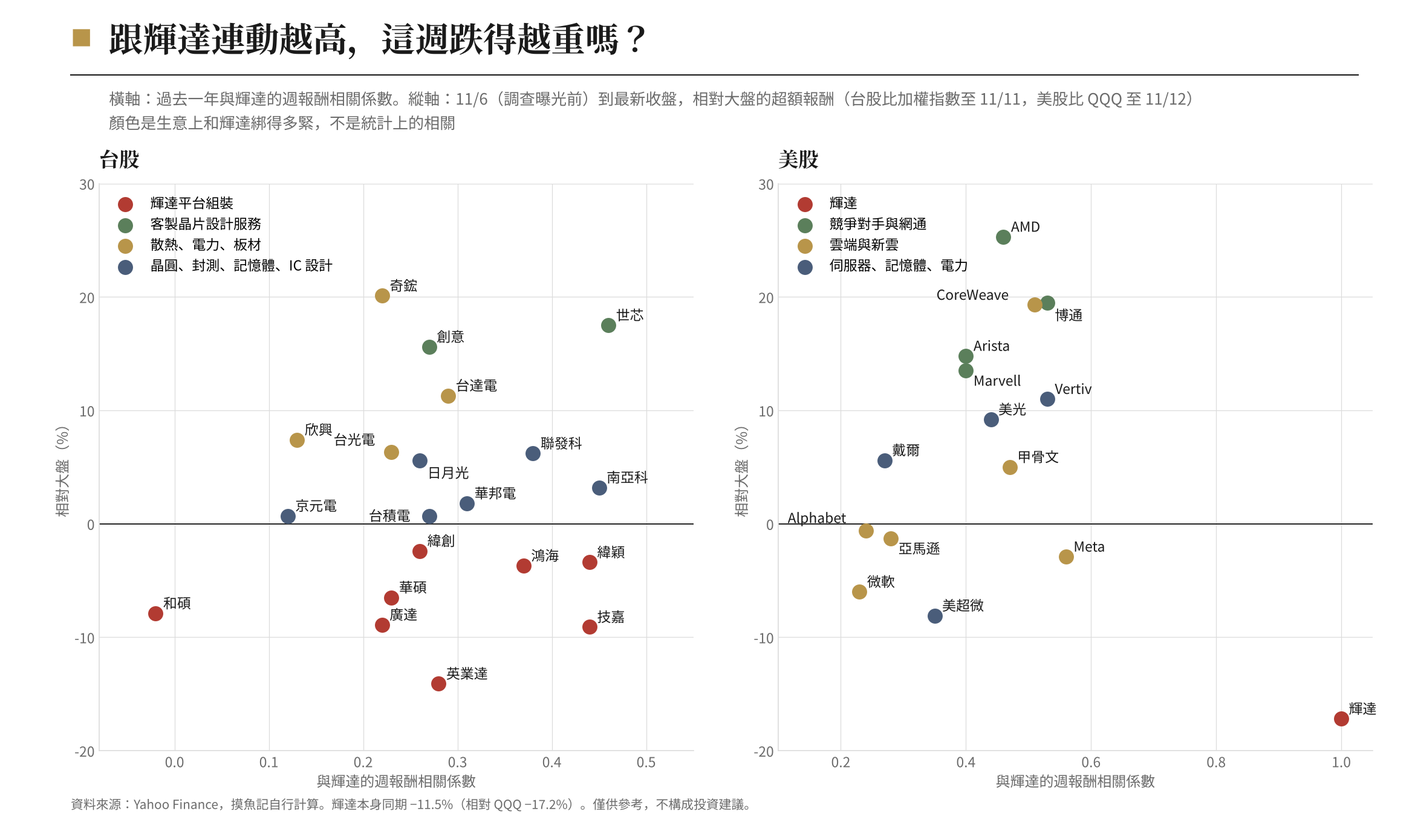
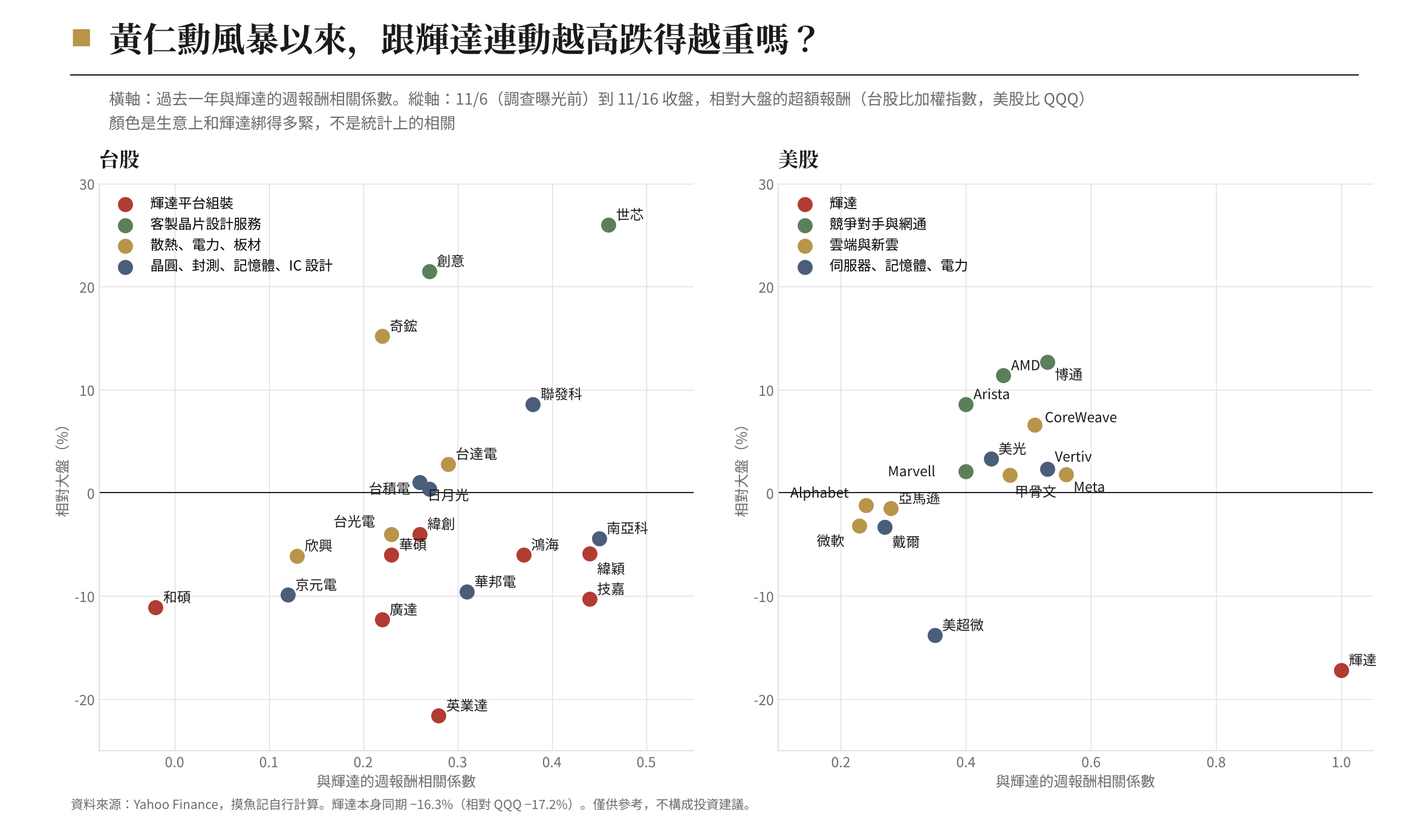
W46: update to 11/16 close, viral affair-table comparison chart
Claude-Session: https://claude.ai/code/session_017fQSiLgrET3Kg63C49rJdr

diff --git a/personal/drafts/gen_W46_chart2.py b/personal/drafts/gen_W46_chart2.py
@@ -5,18 +5,19 @@ SANS='/usr/share/fonts/opentype/noto/NotoSansCJK-Regular.ttc'; SB='/usr/share/fo
 for p in (SANS,SB): fm.fontManager.addfont(p)
 sb=fm.FontProperties(fname=SB); matplotlib.rcParams['font.family']=fm.FontProperties(fname=SANS).get_name(); matplotlib.rcParams['axes.unicode_minus']=False
 BG="#ffffff";INK="#1a1a1a";GREY="#6b6b6b";LGRID="#dcdcdc";GOLD="#b8954a";RED="#b23b32";SLATE="#4a5d7a";GREEN="#5b7f5b"
-TW={"輝達平台組裝":(RED,[("鴻海",.37,-3.7),("廣達",.22,-8.9),("緯創",.26,-2.4),("緯穎",.44,-3.4),("技嘉",.44,-9.1),("英業達",.28,-14.1),("華碩",.23,-6.5),("和碩",-.02,-7.9)]),
-    "客製晶片設計服務":(GREEN,[("世芯",.46,17.5),("創意",.27,15.6)]),
-    "散熱、電力、板材":(GOLD,[("奇鋐",.22,20.1),("台達電",.29,11.3),("台光電",.23,6.3),("欣興",.13,7.4)]),
-    "晶圓、封測、記憶體、IC 設計":(SLATE,[("台積電",.27,.7),("日月光",.26,5.6),("京元電",.12,.7),("南亞科",.45,3.2),("華邦電",.31,1.8),("聯發科",.38,6.2)])}
-US={"輝達":(RED,[("輝達",1.0,-17.2)]),"競爭對手與網通":(GREEN,[("AMD",.46,25.3),("博通",.53,19.5),("Marvell",.40,13.5),("Arista",.40,14.8)]),
-    "雲端與新雲":(GOLD,[("CoreWeave",.51,19.3),("甲骨文",.47,5.0),("Meta",.56,-2.9),("微軟",.23,-6.0),("Alphabet",.24,-.6),("亞馬遜",.28,-1.3)]),
-    "伺服器、記憶體、電力":(SLATE,[("戴爾",.27,5.6),("美超微",.35,-8.1),("美光",.44,9.2),("Vertiv",.53,11.0)])}
-OFF={"台光電":(-46,6),"日月光":(6,-14),"台積電":(-48,-4),"華邦電":(6,4),"CoreWeave":(-78,4),"博通":(6,-14),"Alphabet":(-62,6),"亞馬遜":(6,-12),"Marvell":(6,-12)}
+# run14（2026-11-17-backtest-run14.py）：11/6 收盤 → 11/16 收盤，相對大盤（台股比加權、美股比 QQQ）
+TW={"輝達平台組裝":(RED,[("鴻海",.37,-6.0),("廣達",.22,-12.3),("緯創",.26,-4.0),("緯穎",.44,-5.9),("技嘉",.44,-10.3),("英業達",.28,-21.6),("華碩",.23,-6.0),("和碩",-.02,-11.1)]),
+    "客製晶片設計服務":(GREEN,[("世芯",.46,26.0),("創意",.27,21.5)]),
+    "散熱、電力、板材":(GOLD,[("奇鋐",.22,15.2),("台達電",.29,2.8),("台光電",.23,-4.0),("欣興",.13,-6.1)]),
+    "晶圓、封測、記憶體、IC 設計":(SLATE,[("台積電",.27,.4),("日月光",.26,1.0),("京元電",.12,-9.9),("南亞科",.45,-4.4),("華邦電",.31,-9.6),("聯發科",.38,8.6)])}
+US={"輝達":(RED,[("輝達",1.0,-17.2)]),"競爭對手與網通":(GREEN,[("AMD",.46,11.4),("博通",.53,12.7),("Marvell",.40,2.1),("Arista",.40,8.6)]),
+    "雲端與新雲":(GOLD,[("CoreWeave",.51,6.6),("甲骨文",.47,1.7),("Meta",.56,1.8),("微軟",.23,-3.2),("Alphabet",.24,-1.2),("亞馬遜",.28,-1.5)]),
+    "伺服器、記憶體、電力":(SLATE,[("戴爾",.27,-3.3),("美超微",.35,-13.8),("美光",.44,3.3),("Vertiv",.53,2.3)])}
+OFF={"台光電":(-46,6),"日月光":(6,-14),"台積電":(-48,-4),"華邦電":(6,4),"緯穎":(6,-16),"CoreWeave":(8,2),"博通":(6,-14),"Alphabet":(-60,6),"微軟":(-34,-16),"亞馬遜":(6,4),"戴爾":(6,-16),"甲骨文":(4,-17),"Meta":(6,-14),"Vertiv":(6,6),"Marvell":(-62,-4)}
 fig=plt.figure(figsize=(15.6,9.2),facecolor=BG)
-fig.text(0.05,0.945,"■",color=GOLD,fontsize=17); fig.text(0.077,0.938,"跟輝達連動越高，這週跌得越重嗎？",color=INK,fontsize=27,fontproperties=sb)
+fig.text(0.05,0.945,"■",color=GOLD,fontsize=17); fig.text(0.077,0.938,"黃仁勳風暴以來，跟輝達連動越高跌得越重嗎？",color=INK,fontsize=27,fontproperties=sb)
 fig.lines.append(plt.Line2D([0.05,0.96],[0.91,0.91],transform=fig.transFigure,color=INK,lw=1.0))
-fig.text(0.077,0.895,"橫軸：過去一年與輝達的週報酬相關係數。縱軸：11/6（調查曝光前）到最新收盤，相對大盤的超額報酬（台股比加權指數至 11/11，美股比 QQQ 至 11/12）\n顏色是生意上和輝達綁得多緊，不是統計上的相關",color=GREY,fontsize=12.5,linespacing=1.5,va='top')
+fig.text(0.077,0.895,"橫軸：過去一年與輝達的週報酬相關係數。縱軸：11/6（調查曝光前）到 11/16 收盤，相對大盤的超額報酬（台股比加權指數，美股比 QQQ）\n顏色是生意上和輝達綁得多緊，不是統計上的相關",color=GREY,fontsize=12.5,linespacing=1.5,va='top')
 for k,(G,ttl,xl) in enumerate(((TW,"台股",(-.08,.55)),(US,"美股",(.1,1.05)))):
     ax=fig.add_axes([0.07+k*0.48,0.10,0.42,0.68]); ax.set_facecolor(BG)
     fig.text(0.07+k*0.48,0.80,ttl,color=INK,fontsize=16,fontproperties=sb)
@@ -26,7 +27,7 @@ for k,(G,ttl,xl) in enumerate(((TW,"台股",(-.08,.55)),(US,"美股",(.1,1.05)))
     for name,(col,pts) in G.items():
         ax.scatter([p[1] for p in pts],[p[2] for p in pts],s=120,color=col,zorder=3,label=name)
         for lab,x,y in pts: ax.annotate(lab,(x,y),xytext=OFF.get(lab,(6,4)),textcoords='offset points',fontsize=11,color=INK)
-    ax.set_xlim(*xl); ax.set_ylim(-20,30); ax.set_xlabel("與輝達的週報酬相關係數",color=GREY,fontsize=11.5); ax.set_ylabel("相對大盤（%）",color=GREY,fontsize=11.5)
+    ax.set_xlim(*xl); ax.set_ylim(-25,30); ax.set_xlabel("與輝達的週報酬相關係數",color=GREY,fontsize=11.5); ax.set_ylabel("相對大盤（%）",color=GREY,fontsize=11.5)
     ax.legend(loc='upper left',frameon=False,fontsize=11)
-fig.text(0.05,0.03,"資料來源：Yahoo Finance，摸魚記自行計算。輝達本身同期 −11.5%（相對 QQQ −17.2%）。僅供參考，不構成投資建議。",color=GREY,fontsize=10)
+fig.text(0.05,0.03,"資料來源：Yahoo Finance，摸魚記自行計算。輝達本身同期 −16.3%（相對 QQQ −17.2%）。僅供參考，不構成投資建議。",color=GREY,fontsize=10)
 out='/tmp/claude-0/-home-user-KIWI/81241006-b795-558c-9ffa-398e87d3c614/scratchpad/nl/personal/drafts/W46-chart-supply-chain.png'; plt.savefig(out,dpi=150,facecolor=BG); print(out)

diff --git a/personal/drafts/gen_W46_chart4.py b/personal/drafts/gen_W46_chart4.py
@@ -1,0 +1,37 @@
+"""W46 網傳圖〈When a CEO's affair comes out〉同一組案例，扣掉標普 500 之後（research/data/2026-11-17-backtest-run15-affair-table.py）"""
+import matplotlib; matplotlib.use('Agg')
+import matplotlib.pyplot as plt, matplotlib.font_manager as fm
+SANS='/usr/share/fonts/opentype/noto/NotoSansCJK-Regular.ttc'; SB='/usr/share/fonts/opentype/noto/NotoSerifCJK-Bold.ttc'
+for p in (SANS,SB): fm.fontManager.addfont(p)
+sb=fm.FontProperties(fname=SB); matplotlib.rcParams['font.family']=fm.FontProperties(fname=SANS).get_name(); matplotlib.rcParams['axes.unicode_minus']=False
+BG="#ffffff";INK="#1a1a1a";GREY="#6b6b6b";LGRID="#dcdcdc";GOLD="#b8954a";RED="#b23b32";SLATE="#4a5d7a";LG="#c9c9c9"
+# (標籤, 1年原始, 1年相對SPY, 至今原始, 至今相對財富)；相對財富＝(1+個股)/(1+標普)−1
+E=[("2013 Google†",37.0,12.0,1317,145),("2012 洛克希德",60.8,29.5,904,44),("2012 百思買",11.5,-6.2,672,10),("2005 波音",26.4,20.1,318,-54),
+   ("2025 柯爾百貨",126.9,95.4,269,166),("2019 亞馬遜†",14.2,-14.5,223,-2),("2023 Cboe",44.9,16.6,154,44),("2010 惠普",-28.9,-37.9,123,-75),
+   ("2019 麥當勞",12.4,2.4,66,-39),("2023 BP",-12.8,-39.9,41,-20),("2018 英特爾",-9.0,-17.6,35,-57),("2025 雀巢",7.3,-13.9,19,0)]
+fig=plt.figure(figsize=(15.6,10.2),facecolor=BG)
+fig.text(0.05,0.948,"■",color=GOLD,fontsize=17); fig.text(0.077,0.941,"同一張「CEO 婚外情」表，扣掉大盤之後",color=INK,fontsize=27,fontproperties=sb)
+fig.lines.append(plt.Line2D([0.05,0.96],[0.915,0.915],transform=fig.transFigure,color=INK,lw=1.0))
+fig.text(0.077,0.9,"網傳圖的 12 個案例，起點同樣是消息曝光前一個收盤（還原股價）。灰色是網傳圖的算法（只看股價漲幅），彩色是同期扣掉標普 500（含息）之後\n† Google 曝光的是共同創辦人布林的婚變、亞馬遜的貝佐斯續任執行長，兩案都沒有執行長因此離職",color=GREY,fontsize=12.5,linespacing=1.5,va='top')
+ys=list(range(len(E)))[::-1]; h=0.36
+for k,(ttl,xl,iraw,irel) in enumerate((("一年後",(-60,140),1,2),("到 2026/11/12",(-110,215),3,4))):
+    ax=fig.add_axes([0.20+k*0.41,0.08,0.33 if k==0 else 0.27,0.72]); ax.set_facecolor(BG)
+    fig.text(0.20+k*0.41,0.815,ttl,color=INK,fontsize=16,fontproperties=sb)
+    for s in ('top','right','left'): ax.spines[s].set_visible(False)
+    ax.spines['bottom'].set_color(LGRID); ax.tick_params(colors=GREY,labelsize=11,length=0); ax.grid(axis='x',color=LGRID,lw=0.6,zorder=0); ax.axvline(0,color=INK,lw=0.9)
+    ax.set_xlim(*xl); ax.set_ylim(-0.7,len(E)-0.3); ax.set_yticks(ys)
+    ax.set_yticklabels([e[0] for e in E] if k==0 else ['']*len(E),fontsize=12.5,color=INK)
+    for y,e in zip(ys,E):
+        raw,rel=e[iraw],e[irel]; col=GOLD if rel>=0 else RED
+        if k==0:
+            ax.barh(y+h/2,raw,height=h*0.9,color=LG,zorder=3); ax.text(raw+(2 if raw>=0 else -2),y+h/2,f"{raw:+.0f}%",va='center',ha='left' if raw>=0 else 'right',fontsize=9.5,color=GREY)
+            ax.barh(y-h/2,rel,height=h*0.9,color=col,zorder=3); ax.text(rel+(2 if rel>=0 else -2),y-h/2,f"{rel:+.0f}%",va='center',ha='left' if rel>=0 else 'right',fontsize=9.5,color=INK)
+        else:
+            ax.barh(y,rel,height=h*1.4,color=col,zorder=3)
+            ax.text(rel+(3 if rel>=0 else -3),y,f"{rel:+.0f}%",va='center',ha='left' if rel>=0 else 'right',fontsize=10.5,color=INK)
+            ax.text(1.02,y,f"圖上 {raw:+,}%",transform=ax.get_yaxis_transform(),va='center',ha='left',fontsize=9.5,color=GREY)
+fig.text(0.20,0.035,"■",color=LG,fontsize=14); fig.text(0.215,0.035,"網傳圖：股價漲幅",color=INK,fontsize=12)
+fig.text(0.36,0.035,"■",color=GOLD,fontsize=14); fig.text(0.375,0.035,"扣掉標普後贏大盤",color=INK,fontsize=12)
+fig.text(0.52,0.035,"■",color=RED,fontsize=14); fig.text(0.535,0.035,"扣掉標普後輸大盤",color=INK,fontsize=12)
+fig.text(0.05,0.008,"資料來源：Yahoo Finance 還原股價，摸魚記自行回測；一年＝252 個交易日。右欄為「相對財富」：(1＋個股報酬)÷(1＋標普報酬)−1。僅供參考，不構成投資建議。",color=GREY,fontsize=10)
+out='/tmp/claude-0/-home-user-KIWI/81241006-b795-558c-9ffa-398e87d3c614/scratchpad/nl/personal/drafts/W46-chart-affair-table.png'; plt.savefig(out,dpi=150,facecolor=BG); print(out)

diff --git a/personal/research/data/2026-11-17-backtest-run15-affair-table.py b/personal/research/data/2026-11-17-backtest-run15-affair-table.py
@@ -1,0 +1,55 @@
+"""run15：比對網傳圖〈When a CEO's affair comes out〉。同一組 12 案＋輝達，算原始報酬（還原價）與相對 SPY（含息）的超額報酬。
+起點＝消息曝光前一個收盤（與該圖相同定義）。終點：1 週＝5 個交易日、1 年＝252 個交易日、至今＝2026-11-12（圖的終點）。"""
+import json,datetime as dt
+P='/tmp/claude-0/-home-user-KIWI/81241006-b795-558c-9ffa-398e87d3c614/scratchpad/bt/affair/'
+def L(s):
+    r=json.load(open(P+s+'.json'))['chart']['result'][0]
+    ts=[dt.datetime.utcfromtimestamp(t).date() for t in r['timestamp']]
+    a=r['indicators']['adjclose'][0]['adjclose']
+    return [(d,c) for d,c in zip(ts,a) if c]
+# (公司, 代號, 消息曝光前一個收盤日, 圖上 1週/1年/至今, 黃仁勳式「離職」與否, 註)
+E=[("Google","GOOGL","2013-08-27",(2.7,36.6,1320),False,"布林（共同創辦人，非 CEO）婚變曝光；未離職"),
+   ("Lockheed Martin","LMT","2012-11-08",(-2.6,60.8,904),True,"候任 CEO Kubasik 因與下屬關係被迫辭職"),
+   ("Best Buy","BBY","2012-04-09",(-3.5,19.0,672),True,"CEO Dunn 辭職，事後調查揭露與下屬關係"),
+   ("Boeing","BA","2005-03-04",(-1.5,27.7,318),True,"CEO Stonecipher 因與下屬關係被要求辭職"),
+   ("Kohl's","KSS","2025-04-30",(-2.7,119,269),True,"CEO Buchanan 因與供應商伴侶的利益衝突被開除"),
+   ("Amazon","AMZN","2019-01-08",(1.1,14.2,223),False,"貝佐斯宣布離婚、婚外情曝光；續任 CEO"),
+   ("Cboe","CBOE","2023-09-15",(2.4,42.5,150),True,"CEO Tilly 因未揭露與同事關係辭職"),
+   ("HP","HPQ","2010-08-06",(-12.6,-28.9,123),True,"CEO Hurd 因與外部承包商關係及費用問題辭職"),
+   ("McDonald's","MCD","2019-11-01",(-0.2,12.6,66.3),True,"CEO Easterbrook 因與員工關係被開除"),
+   ("BP","BP","2023-09-12",(1.9,-13.6,41.4),True,"CEO Looney 因未完整揭露與同事關係辭職"),
+   ("Intel","INTC","2018-06-20",(-8.8,-9.5,34.7),True,"CEO Krzanich 因與員工關係辭職"),
+   ("Nestlé","NESN.SW","2025-09-01",(0.3,7.6,14.5),True,"CEO Freixe 因未揭露與下屬關係被開除"),
+   ("Nvidia","NVDA","2026-11-06",(-11.0,None,-11.0),True,"黃仁勳 11/12 辭職")]
+spy=L('SPY'); SD={d:c for d,c in spy}
+END=dt.date(2026,11,12)
+def at(ser,i): return ser[i] if 0<=i<len(ser) else None
+def r(ser,d0,k=None,end=None):
+    i0=max(i for i,(d,c) in enumerate(ser) if d<=d0)
+    if end: i1=max(i for i,(d,c) in enumerate(ser) if d<=end)
+    else:
+        i1=i0+k
+        if i1>=len(ser): return None,None,None
+    a,b=ser[i0],ser[i1]
+    sa=SD.get(a[0]); sb=SD.get(b[0])
+    # 非美股（NESN）日期對不上時，用不晚於該日的 SPY
+    if sa is None: sa=[c for d,c in spy if d<=a[0]][-1]
+    if sb is None: sb=[c for d,c in spy if d<=b[0]][-1]
+    raw=(b[1]/a[1]-1)*100; sp=(sb/sa-1)*100
+    yrs=(b[0]-a[0]).days/365.25
+    return raw,raw-sp,(sp,yrs)
+print("公司|起點|圖:1週/1年/至今|我算原始:1週/1年/至今|相對SPY:1週/1年/至今|同期SPY至今|年數")
+rows=[]
+for n,s,d,img,left,note in E:
+    ser=L(s); d0=dt.date.fromisoformat(d)
+    w=r(ser,d0,5); y=r(ser,d0,252); t=r(ser,d0,end=END)
+    f=lambda x:'—' if x is None else f'{x:+.1f}'
+    print(f"{n}|{d}|{img}|{f(w[0])}/{f(y[0])}/{f(t[0])}|{f(w[1])}/{f(y[1])}/{f(t[1])}|{f(t[2][0])}|{t[2][1]:.1f}")
+    rows.append((n,y[1],t[1],left))
+ys=[x[1] for x in rows if x[1] is not None and x[0]!='Nvidia']; ts=[x[2] for x in rows if x[0]!='Nvidia']
+import statistics as st
+print('12 案 1年相對SPY：贏',sum(v>0 for v in ys),'/',len(ys),'中位',round(st.median(ys),1))
+print('12 案 至今相對SPY：贏',sum(v>0 for v in ts),'/',len(ts),'中位',round(st.median(ts),1))
+lv=[x for x in rows if x[3] and x[0]!='Nvidia']
+print('真的離職的',len(lv),'案 1年相對SPY：贏',sum(x[1]>0 for x in lv if x[1] is not None),'/',sum(x[1] is not None for x in lv),'中位',round(st.median([x[1] for x in lv if x[1] is not None]),1))
+print('真的離職的',len(lv),'案 至今相對SPY：贏',sum(x[2]>0 for x in lv),'/',len(lv),'中位',round(st.median([x[2] for x in lv]),1))

diff --git a/personal/research/data/2026-11-17-backtest-run14.py b/personal/research/data/2026-11-17-backtest-run14.py
@@ -1,0 +1,40 @@
+END='2026-11-16'  # run14: 更新到 11/16 收盤（台美皆是）；Yahoo 最後一根為 None 時用 meta 收盤價
+import json,datetime as dt,statistics as st
+P='/tmp/claude-0/-home-user-KIWI/81241006-b795-558c-9ffa-398e87d3c614/scratchpad/bt/sc/'
+N={'2317.TW':'鴻海','2382.TW':'廣達','3231.TW':'緯創','6669.TW':'緯穎','2449.TW':'京元電','2330.TW':'台積電','3711.TW':'日月光投控','2454.TW':'聯發科','2408.TW':'南亞科','2344.TW':'華邦電','2308.TW':'台達電','3017.TW':'奇鋐','2383.TW':'台光電','3037.TW':'欣興','2376.TW':'技嘉','3443.TW':'創意','3661.TW':'世芯-KY','2357.TW':'華碩','4938.TW':'和碩','2356.TW':'英業達',
+   'AMD':'AMD','AVGO':'博通','MU':'美光','TSM':'台積電ADR','DELL':'戴爾','SMCI':'美超微','CRWV':'CoreWeave','ORCL':'甲骨文','MRVL':'Marvell','GOOGL':'Alphabet','MSFT':'微軟','AMZN':'亞馬遜','META':'Meta','ANET':'Arista','VRT':'Vertiv'}
+def L(s):
+    r=json.load(open(P+s+'.json'))['chart']['result'][0]; m={}
+    for t,c in zip(r['timestamp'],r['indicators']['quote'][0]['close']):
+        if c: m[dt.datetime.utcfromtimestamp(t).date().isoformat()]=c
+    mt=r['meta']; md=dt.datetime.utcfromtimestamp(mt['regularMarketTime']).date().isoformat()
+    if md not in m and mt.get('regularMarketPrice') and md<=END: m[md]=mt['regularMarketPrice']
+    m={k:v for k,v in m.items() if k<=END}
+    return m
+nv=L('NVDA'); tw=L('TWII'); tw['2026-11-16']=41040.08  # 證交所 FMTQIK（Yahoo 該日為 None）
+qq=L('QQQ')
+def wk(m):  # weekly closes (ISO week, last close)
+    w={}
+    for d in sorted(m): w[dt.date.fromisoformat(d).isocalendar()[:2]]=m[d]
+    return w
+def corr(a,b):
+    ks=sorted(set(a)&set(b)); ks=[k for k in ks if k>=(2025,45) and k<(2026,45)]
+    ra=[a[ks[i]]/a[ks[i-1]]-1 for i in range(1,len(ks))]; rb=[b[ks[i]]/b[ks[i-1]]-1 for i in range(1,len(ks))]
+    ma,mb=st.mean(ra),st.mean(rb); c=sum((x-ma)*(y-mb) for x,y in zip(ra,rb)); va=sum((x-ma)**2 for x in ra); vb=sum((y-mb)**2 for y in rb)
+    return c/(va*vb)**0.5, c/vb   # corr, beta to NVDA
+def ret(m,a,b):
+    ks=sorted(m); x=max(k for k in ks if k<=a); y=max(k for k in ks if k<=b); return (m[y]/m[x]-1)*100,y
+W=wk(nv); out=[]
+nvr,nvd=ret(nv,'2026-11-06',END); twr,_=ret(tw,'2026-11-06',END); qqr,_=ret(qq,'2026-11-06',END)
+print('NVDA 11/6→%s %+.1f%%  加權 %+.1f%%  QQQ %+.1f%%'%(nvd,nvr,twr,qqr))
+for s,n in N.items():
+    m=L(s); c,b=corr(wk(m),W); r,d=ret(m,'2026-11-06',END); bench=twr if s.endswith('.TW') else qqr
+    out.append((n,s,c,b,r,r-bench,d))
+out.sort(key=lambda x:-x[2])
+print('公司|代號|與輝達週報酬相關係數(近一年)|11/6→最新 報酬|相對大盤')
+for n,s,c,b,r,rel,d in out: print(f'{n}|{s}|{c:.2f}|{r:+.1f}%|{rel:+.1f}% ({d})')
+tw_=[x for x in out if x[1].endswith('.TW')]; us_=[x for x in out if not x[1].endswith('.TW')]
+for nm,g in (('台股',tw_),('美股',us_)):
+    xs=[x[2] for x in g]; ys=[x[5] for x in g]; mx,my=st.mean(xs),st.mean(ys)
+    r=sum((a-mx)*(b-my) for a,b in zip(xs,ys))/(sum((a-mx)**2 for a in xs)*sum((b-my)**2 for b in ys))**0.5
+    print(nm,'相關係數 vs 相對報酬 的相關',round(r,2))

diff --git a/personal/drafts/2026-W46_nvidia-ceo-FINAL.md b/personal/drafts/2026-W46_nvidia-ceo-FINAL.md
@@ -7,15 +7,18 @@
 
 〔訂閱框放這裡〕
 
-## 一、一週之內發生了什麼
+## 一、從國會來信到辭職下台
 
 - **十一月四日**：美國眾議院三個委員會的主席去信，要求黃仁勳出席閉門簡報，說明他和一名新加坡晶片買家高層之間的往來；美方官員懷疑這名高層替中國情報單位工作
 - **十一月八日**：黃仁勳在給員工的信裡承認不忠，董事會宣布展開獨立調查
 - **十一月九日**：台股大漲的同一天，輝達逆勢跌了 4.27%
 - **十一月十一日**：《紐約時報》報導他和一名直屬下屬有第二段婚外情，《華爾街日報》報導董事會準備罷免他，輝達盤後重挫
 - **十一月十二日**：輝達公告，黃仁勳辭去總裁、執行長和董事，立即生效。財務長 Colette Kress 兼任臨時執行長，Harvey Jones 出任公司史上第一位董事會主席，財報照原訂十一月十七日公布
+- **十一月十三日**：輝達寫下一年半以來最差的單週表現
+- **十一月十五日**：美國財長貝森特說輝達領導層需要「大換血」，建議董事會從外部找執行長；《金融時報》則報導，黃仁勳正在討論重返公司的可能
+- **十一月十六日**：川普說黃仁勳沒有危害國家安全，支持他重掌輝達，但據彭博報導，董事會並沒有考慮讓他復職。同一天美國出了出口新規，限制中國實體遠端使用先進 AI 晶片，賣到新加坡、印尼、馬來西亞、泰國和巴西也改成逐案審批。台股單日重挫 2,635 點，是史上第二大跌點；美股標普 500 跌 1.9%，晶片股再度領跌
 
-從十一月六日到十二日盤中，輝達跌了一成一以上；同一段時間，那斯達克 100 反而漲了將近 6%。市場其他地方其實在反彈：十月非農就業多增了 16.5 萬人，遠高於預期，CoreWeave 財報後大漲帶動整個 AI 族群，標普 500 和那斯達克 100 到十一月十一日已經幾乎收復十一月五日的跌幅。**這一次，輝達的問題是輝達自己的。**
+從十一月六日到十六日，輝達跌了一成六；同一段時間，那斯達克 100 幾乎原地不動。前半段市場其他地方其實在反彈：十月非農就業多增了 16.5 萬人，遠高於預期，CoreWeave 財報後大漲帶動整個 AI 族群；後半段遇上通膨數據偏熱和晶片新規，又被拖了下來。**這一次，輝達的問題主要是輝達自己的。**
 
 ## 二、說文解字：創辦人溢價
 
@@ -37,23 +40,34 @@
 2. **長期看接班人和本業**：蘋果在賈伯斯離開後，第一年贏大盤、第二年小輸，拉長到現在則是遙遙領先，因為庫克接得住，iPhone 還在成長期；微軟在蓋茲交棒後，前兩年大幅落後，靠著雲端轉型才在很多年後贏回來
 3. **有沒有遇到科技股大跌，不是關鍵**：八個案例裡有四個在一年內碰上那斯達克 100 回檔兩成以上，其中兩個一年後還是贏大盤（Alphabet 碰上新冠崩盤、英特爾 2024 年碰上關稅崩跌）；沒碰上大跌的四個，反而只有蘋果贏。微軟 2000 年碰上網路泡沫破裂，是唯一能把落後怪到大盤頭上的案例
 
+### 網傳的那張表，為什麼看起來那麼好？
+
+這幾天網路上流傳一張表：執行長婚外情曝光之後，十二家公司的股價到現在幾乎全部大漲，Google 甚至漲了十三倍。數字本身沒有算錯，我用同樣的起點重算，跟表上幾乎一樣。問題出在兩個地方：
+
+〔圖放這裡：W46-chart-affair-table.png〕
+
+1. **只看股價，沒有扣掉大盤**。這些案例很多發生在 2005 到 2013 年，之後標普 500 自己就漲了五到八倍，放著指數不動也很好看。扣掉大盤之後，一年後贏大盤的只有一半，拉到現在也只有一半；波音、惠普、英特爾、麥當勞，反而落後大盤將近四成到七成五
+2. **有兩個案例其實沒有人離職**：Google 那次是共同創辦人布林的婚變，他當時不是執行長；亞馬遜的貝佐斯則繼續當執行長。把這兩個拿掉，表上剩下的十家，扣掉大盤後到現在的中位數是落後的
+
+所以比較誠實的說法是：**私德醜聞本身，長期來看不太會決定股價，但也不會讓股價變好**。決定股價的，還是本業和接班人。這跟上面科技業的回測結論是同一件事。
+
 換句話說，**股價不是在算「他走了」，而是在算「接下來誰做決定、本業正在週期的哪一段」**。輝達的本業還在成長，但接班人還沒有名字，臨時執行長又是財務出身。這兩件事，就是接下來要盯的。
 
 ## 四、供應鏈：跟輝達連動越高，不代表跌得越重
 
 〔圖放這裡：W46-chart-supply-chain.png〕
 
-很多人第一個反應是看「跟輝達相關性高的股票」。我把台股和美股常見的 AI 相關股，拿過去一年跟輝達的週報酬相關係數，對上十一月六日以來相對大盤的表現。結果出乎意料：**跟輝達連動越高，不代表跌得越重**。台股幾乎看不出關係；美股甚至是連動越高、表現越好，因為走勢最像輝達的，正是它的對手。真正有用的，是生意上綁得多緊。
+很多人第一個反應是看「跟輝達相關性高的股票」。我把台股和美股常見的 AI 相關股，拿過去一年跟輝達的週報酬相關係數，對上十一月六日到十六日相對大盤的表現。結果出乎意料：**跟輝達連動越高，不代表跌得越重**。台股只看得出很弱的關係；美股甚至是連動越高、表現越好，因為走勢最像輝達的，正是它的對手。真正有用的，是生意上綁得多緊。
 
-- **受傷的：綁輝達平台的組裝廠**。廣達、技嘉、英業達、華碩、和碩、鴻海、緯穎、緯創，這一週全部落後加權指數。它們的出貨時程和產品驗證，都跟著輝達的節奏走
-- **受惠的：替代方案**。美股的 AMD、博通、Marvell，台股做客製晶片設計服務的世芯、創意，都大幅贏過大盤。市場在押「雲端業者會不會更積極找第二供應商、自己設計晶片」
-- **不太受影響的：誰贏都用得到的**。台積電、京元電、記憶體，跟大盤差不多；散熱、電力的奇鋐、台達電，美股的 Vertiv 反而大漲，因為不管晶片是誰的，資料中心都要降溫和供電
+- **受傷的：綁輝達平台的組裝廠**。廣達、技嘉、英業達、華碩、和碩、鴻海、緯穎、緯創，全部落後加權指數。它們的出貨時程和產品驗證，都跟著輝達的節奏走
+- **受惠的：替代方案**。美股的 AMD、博通，台股做客製晶片設計服務的世芯、創意，都大幅贏過大盤。市場在押「雲端業者會不會更積極找第二供應商、自己設計晶片」
+- **不太受影響的：誰贏都用得到的**。台積電、日月光跟大盤差不多；散熱的奇鋐反而大漲，因為不管晶片是誰的，資料中心都要降溫。不過十一月十六日台股大跌那天，記憶體、測試和板材也被拖下水，跌得比大盤多。恐慌的時候沒有誰是安全的，差別只在跌多跌少
 
 這也提醒一件事：**以為自己分散買了十檔 AI 股，實際上可能押的是同一個人的決策**。把手上的部位分成「綁輝達平台」「替代方案」「誰贏都用得到」三類，算一下比重，比看相關係數有用。
 
 ## 五、AI 泡沫會被這件事戳破嗎？
 
-這週剛好疊了三件敏感的事：輝達十一月十七日公布財報，Anthropic 預計十一月十八日定價、十九日掛牌，再加上利率。十月消費者物價高於預期，市場押十二月升息的機率接近九成，十年期美債殖利率又回到 5% 以上。
+這週剛好疊了三件敏感的事：輝達十一月十七日公布財報，Anthropic 預計十一月十八日定價、十九日掛牌，再加上利率。十月消費者物價高於預期，生產者物價年增 6.5%，是約四年來最大升幅，市場已經押定十二月升息，十年期美債殖利率站上 5.1%。聯準會自己的金融穩定報告也點名，部分 AI 股的估值偏高，是潛在的脆弱點。
 
 先說超大型 IPO。市場常說「超大型 IPO 出現，就是行情的頂部」，我挑了 1999 年以來十五個最受矚目的超大型 IPO，看掛牌後那斯達克 100 怎麼走：
 
@@ -69,22 +83,24 @@
 
 1. **企業獲利有沒有往下修**：還沒有。CoreWeave 剛上調全年營收指引，訂單積壓也比六月多了將近三成，關鍵在十一月十七日輝達的財報與展望
 2. **信用市場有沒有流動性危機**：有壓力。CoreWeave 公司債的殖利率超過 16%，公司宣布 2027 年前不再發無擔保債，改用客戶合約擔保的方式借錢；瑞銀資產管理也警告，AI 投資形成了一張「債務網絡」
-3. **政策是威脅還是落地**：還是威脅。資料中心暫停興建的主張，據 Benzinga 報導已經有共和黨參議員表態支持，但還沒有法案
+3. **政策是威脅還是落地**：開始落地。十一月十六日的晶片新規已經生效，雖然針對的是中國和轉運風險較高的國家，不是美國本土的 AI 投資；資料中心暫停興建的主張，據 Benzinga 報導已經有共和黨參議員表態支持，但還沒有法案
 4. **新增：做決定的人換了**：輝達有沒有改變「提前包產能、幫客戶融資」的做法，會直接影響新雲公司能不能繼續借到錢
 
 〔你的機率判斷：Jake 自己寫（規則 130）〕
 
 ## 六、國安基金進場一週後
 
-國安基金十一月六日盤後決議進場，十一月九日台股大漲 1,960 點，接著兩天又漲了將近 2,600 點；十一月十二日輝達盤後重挫的消息傳來，台股回吐 1,165 點，收在 43,091 點。比國安基金決議那天的收盤，還是多了 8.5%。國安基金實際買了多少，財政部還沒有公布。
+國安基金十一月六日盤後決議進場，十一月九日台股大漲 1,960 點，接著四天震盪走高，十一月十三日收在 43,675 點。然後十一月十六日一天跌掉 2,635 點，收在 41,040 點，**已經跌破國安基金進場那天的收盤**，只比決議當天高 3.4%。國安基金實際買了多少，財政部還沒有公布。
 
-更值得注意的是外資。十一月九日還賣超約 900 億元，十日降到約 340 億元，十一日和十二日都只剩個位數億元。**外資的賣壓明顯收斂了**，投信則是這四天每天都在買。
+外資的動作也來回很大。十一月九日還賣超約 900 億元，接著三天賣壓快速收斂，十一月十三日甚至轉為買超約 288 億元；十六日又賣超約 702 億元，賣超前十名裡有九檔是 ETF，0050 首當其衝。連續買了好幾週的投信，十六日也轉為賣超。
 
-美股這邊，恐慌指數 VIX 在十一月五日最高收到 28.2，沒有到我們設的 35，十一日已經退回 17.5。**這一次美股沒有給出「恐慌價」**，如果你在等 VIX 35 才進場，這一輪等不到。這也是訊號的代價：條件設得嚴，準確率高，但會錯過一些反彈。
+這其實就是〈抄底小超人的抄底訊號〉講過的事：**國安基金進場是「恐慌已經到位」的確認，不是底部**。2008 年國安基金進場之後，0050 又跌了三成四；但國安基金進場後持有十二個月，0050 七次都是賺的。所以會遇到這種「進場一週就跌破」的情況，是這個訊號本來就包含的成本，分批的意義也在這裡。
+
+美股這邊，恐慌指數 VIX 十一月十六日回升到 22.9，還是沒有到我們設的 35。**這一輪美股還沒有給出「恐慌價」**，如果你在等 VIX 35，還得繼續等；這也是訊號的代價：條件設得嚴，準確率高，但不保證會出現。
 
 ## 七、十一月十七日之後要看什麼
 
-1. **輝達財報**：臨時執行長還會不會維持明年營收大幅成長的說法、毛利率守不守得住、對客戶融資和擔保的政策有沒有改口
+1. **輝達財報（十一月十七日美股盤後）**：臨時執行長還會不會維持明年營收大幅成長的說法、毛利率守不守得住、對客戶融資和擔保的政策有沒有改口，以及出口新規對東南亞營收的影響
 2. **接班人**：內部升任代表延續，外部找人代表策略可能重來
 3. **Anthropic 掛牌後的表現**：如果掛牌後走弱，AI 股的資金面會再緊一次
 4. **十二月九日聯準會**：升息幾乎已經定價，重點是會不會暗示還要再升

diff --git a/personal/drafts/2026-W46_nvidia-ceo-notes.md b/personal/drafts/2026-W46_nvidia-ceo-notes.md
@@ -26,3 +26,15 @@
 6. **Baird、摩根士丹利降評、Dan Ives 300／225 美元估值**：本版拿掉，來源層級不足；要用需補第二源。
 7. 國安基金實際買進金額：財政部未公布。
 8. 京元電輝達營收占比 36%（中時一源）：本版未使用。
+
+---
+
+## 11/17 改版（Jake：收盤後更新輝達與供應鏈；比對網傳圖；加「黃仁勳回歸推演」「出軌成本」兩節）
+
+- **數字更新到 11/16 收盤**（台美皆是）：`research/data/2026-11-17-backtest-run14.py`／`out14.txt`。Yahoo 最後一根為 None 時用 meta 收盤價；加權 11/16 Yahoo 缺值，用證交所 41,040.08 補。NVDA 11/6 186.64 → 11/16 156.14（−16.3%），QQQ +0.9%，NDX 26,989.99 → 27,197.15（+0.8%）。相關 vs 相對報酬：台 0.28、美 0.54。
+- 台股（證交所一手）：11/13 43,675.12（+583.25）；11/16 41,040.08（−2,635.04，−6.03%，史上第二大跌點：中央社＋鉅亨）。11/16 收盤低於國安基金進場日 11/9 的 41,661.70（−1.5%），高於 11/6 決議日 +3.4%。
+- 法人（BFI82U）：11/13 外資 +288.4 億、投信 +95.4 億；11/16 外資 −701.9 億、投信 −183.0 億、自營避險 −290.2 億。外資賣超前十有九檔 ETF、0050 −11.1 萬張（Yahoo 新聞兩篇）。「投信終止連 24 買」只有鉅亨一源，正文只寫「連續買了好幾週」。
+- VIX：11/12 18.70、11/13 19.30、11/16 22.91。S&P 11/16 7,416.59（−1.9%）。
+- 彭博盤前簡報 11/16、11/17（Jake 信箱）：貝森特要求輝達領導層「大換血」、建議外部 CEO；FT 報導黃仁勳討論重返；輝達稱未正式接觸 CEO 候選人（曾報導接洽 Arm 的 Rene Haas）；Moolenaar 稱黃仁勳同意閉門作證；川普稱黃仁勳未危害國安、支持他重掌輝達，據悉董事會未考慮讓他復職；11/16 美國晶片新規（限制中國實體遠端使用、新加坡等五國逐案審批）；10 月 PPI 年增 6.5%；Fed 金融穩定報告點名 AI 估值；10 年債 5.13%；NVDA 11/13 當週為逾 18 個月最大單週跌幅。
+- **網傳圖比對**：`research/data/2026-11-17-backtest-run15-affair-table.py`／`out15.txt`，圖 `W46-chart-affair-table.png`（gen_W46_chart4.py）。網傳圖的原始報酬我們重算幾乎一致（百思買一年 19.0 vs 11.5、Cboe 一週、雀巢略有差異，可能是一年的定義或幣別）。扣掉 SPY（含息）：一年後 6/12 贏、中位 −1.9%；到 11/12 相對財富 6/12 贏、中位 −1.0%。只算真的有人離職的 10 案：至今中位 −10%（相對財富）。Google 2013 是布林（非 CEO）婚變、亞馬遜 2019 貝佐斯續任，兩案無人離職。
+- 待確認：柯爾百貨 2025 一年翻倍的原因（迷因股行情？）正文沒寫。
